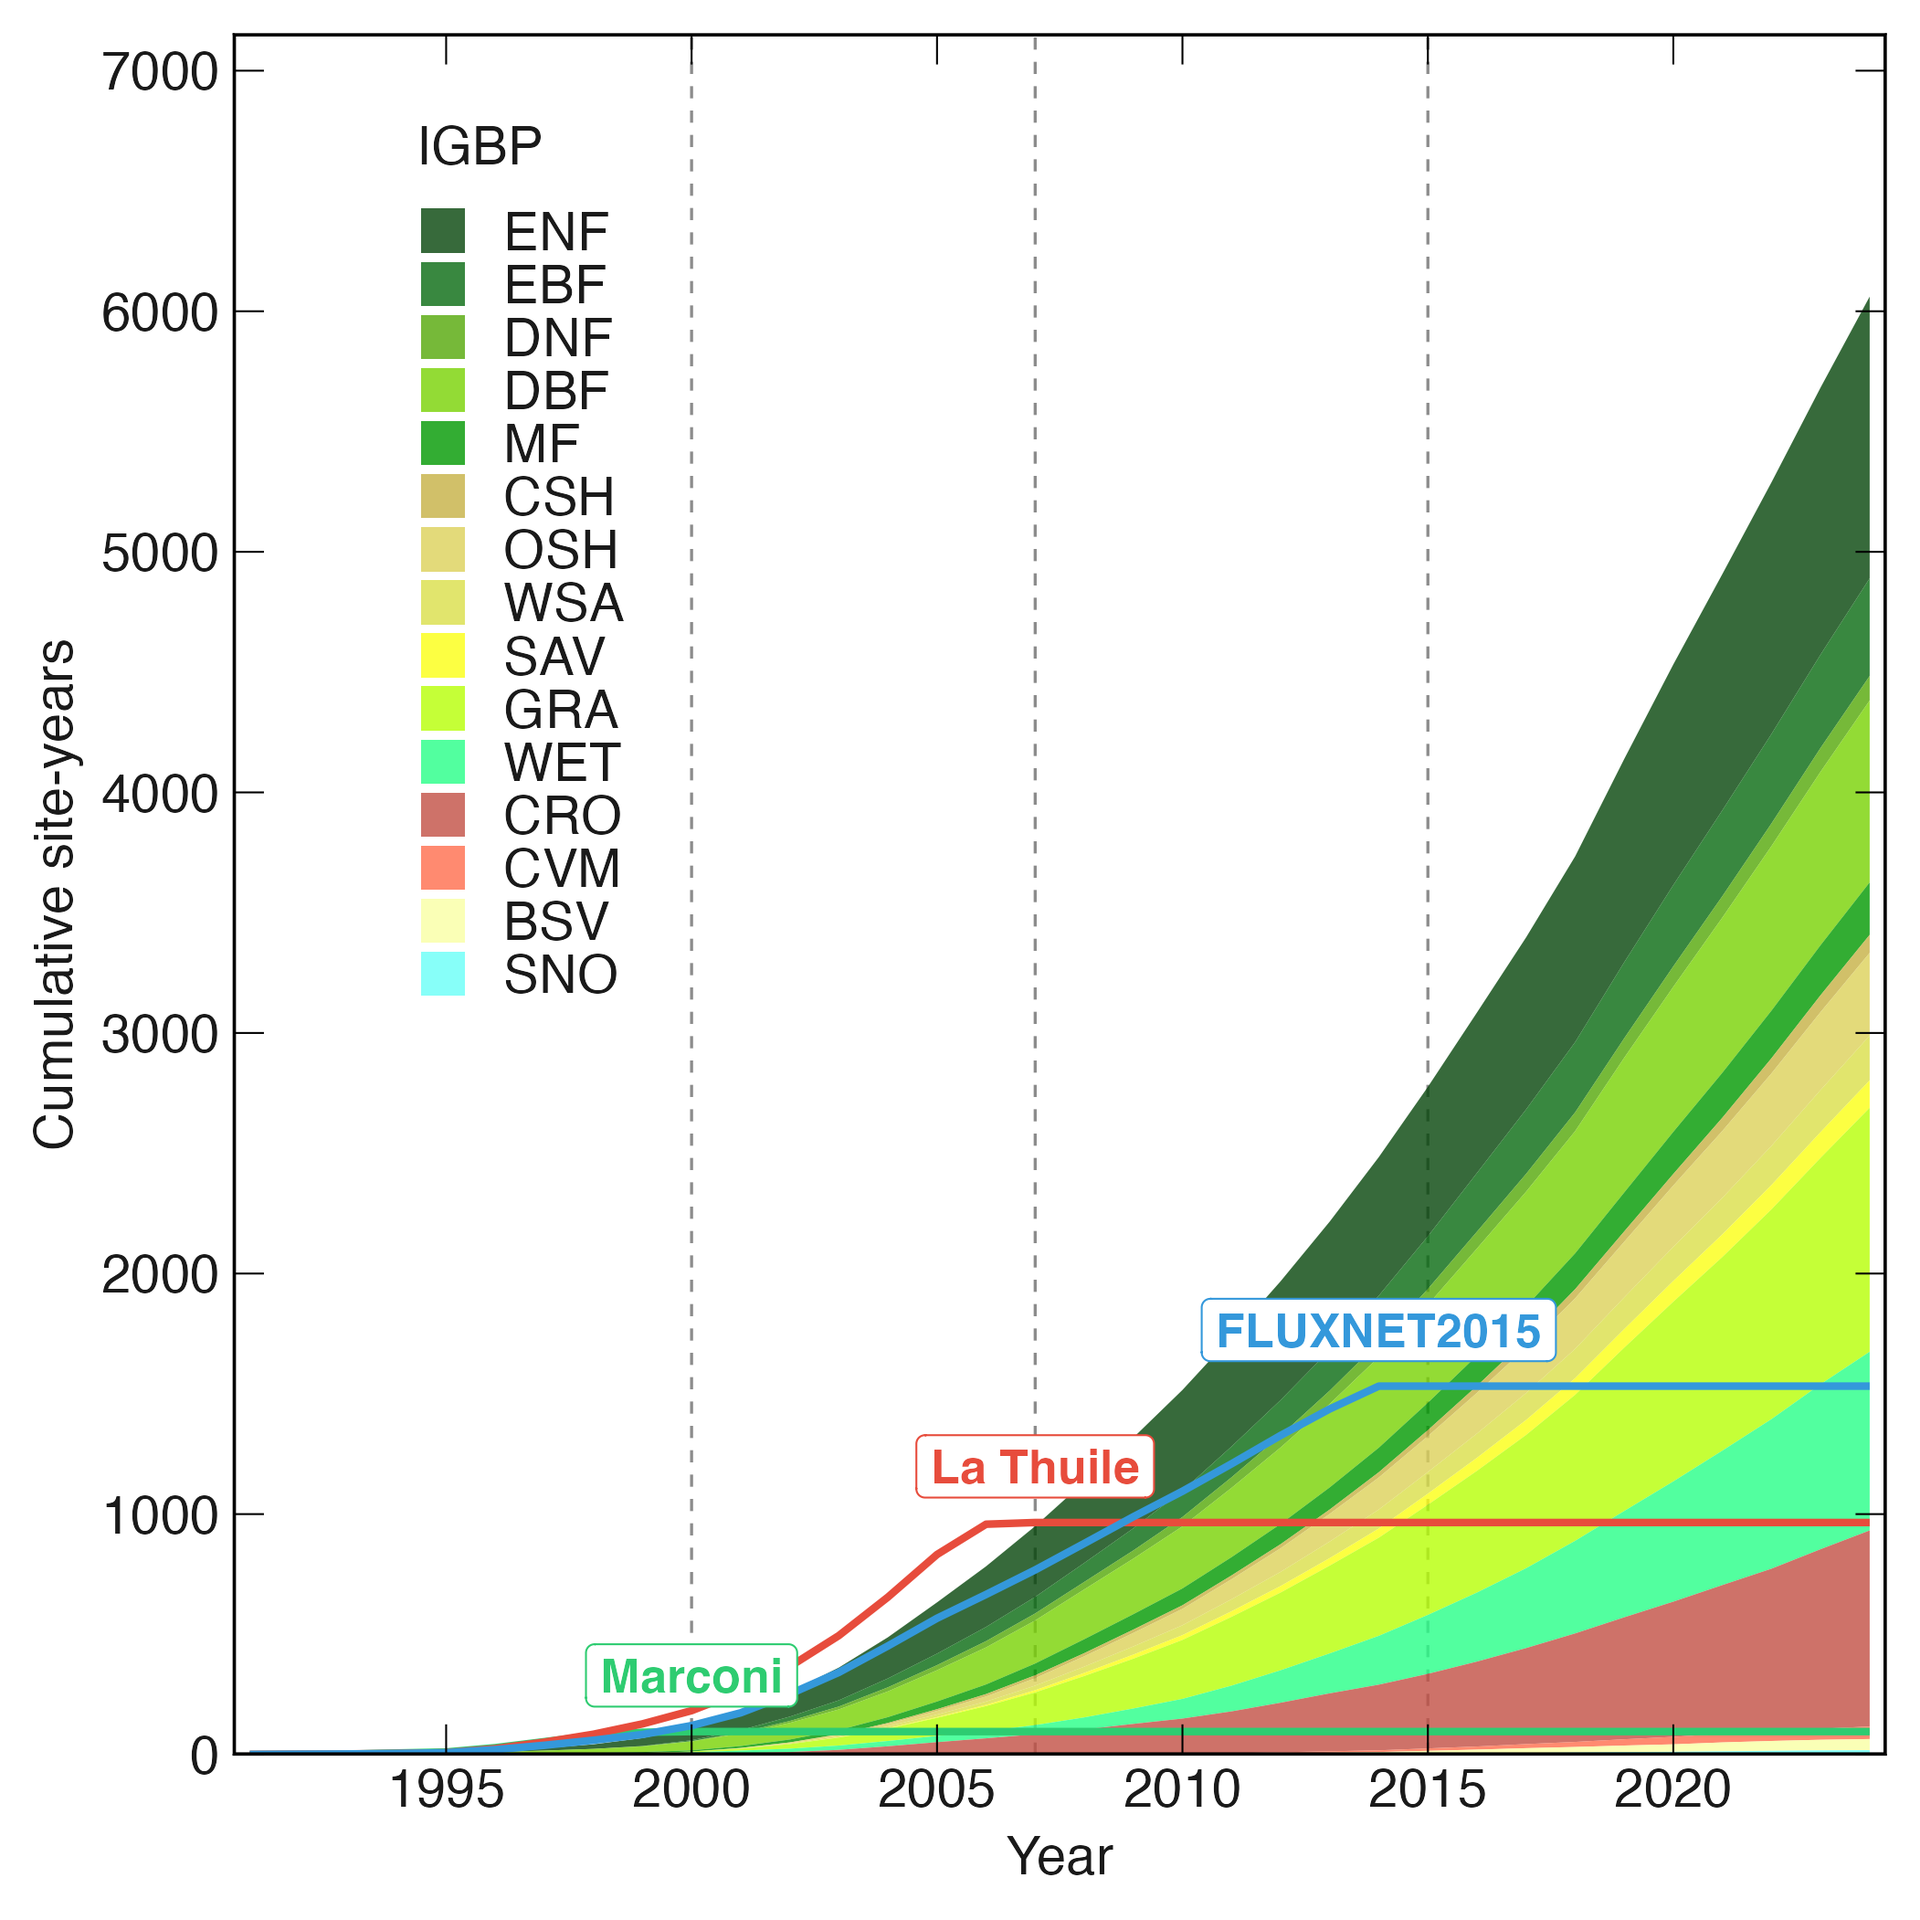
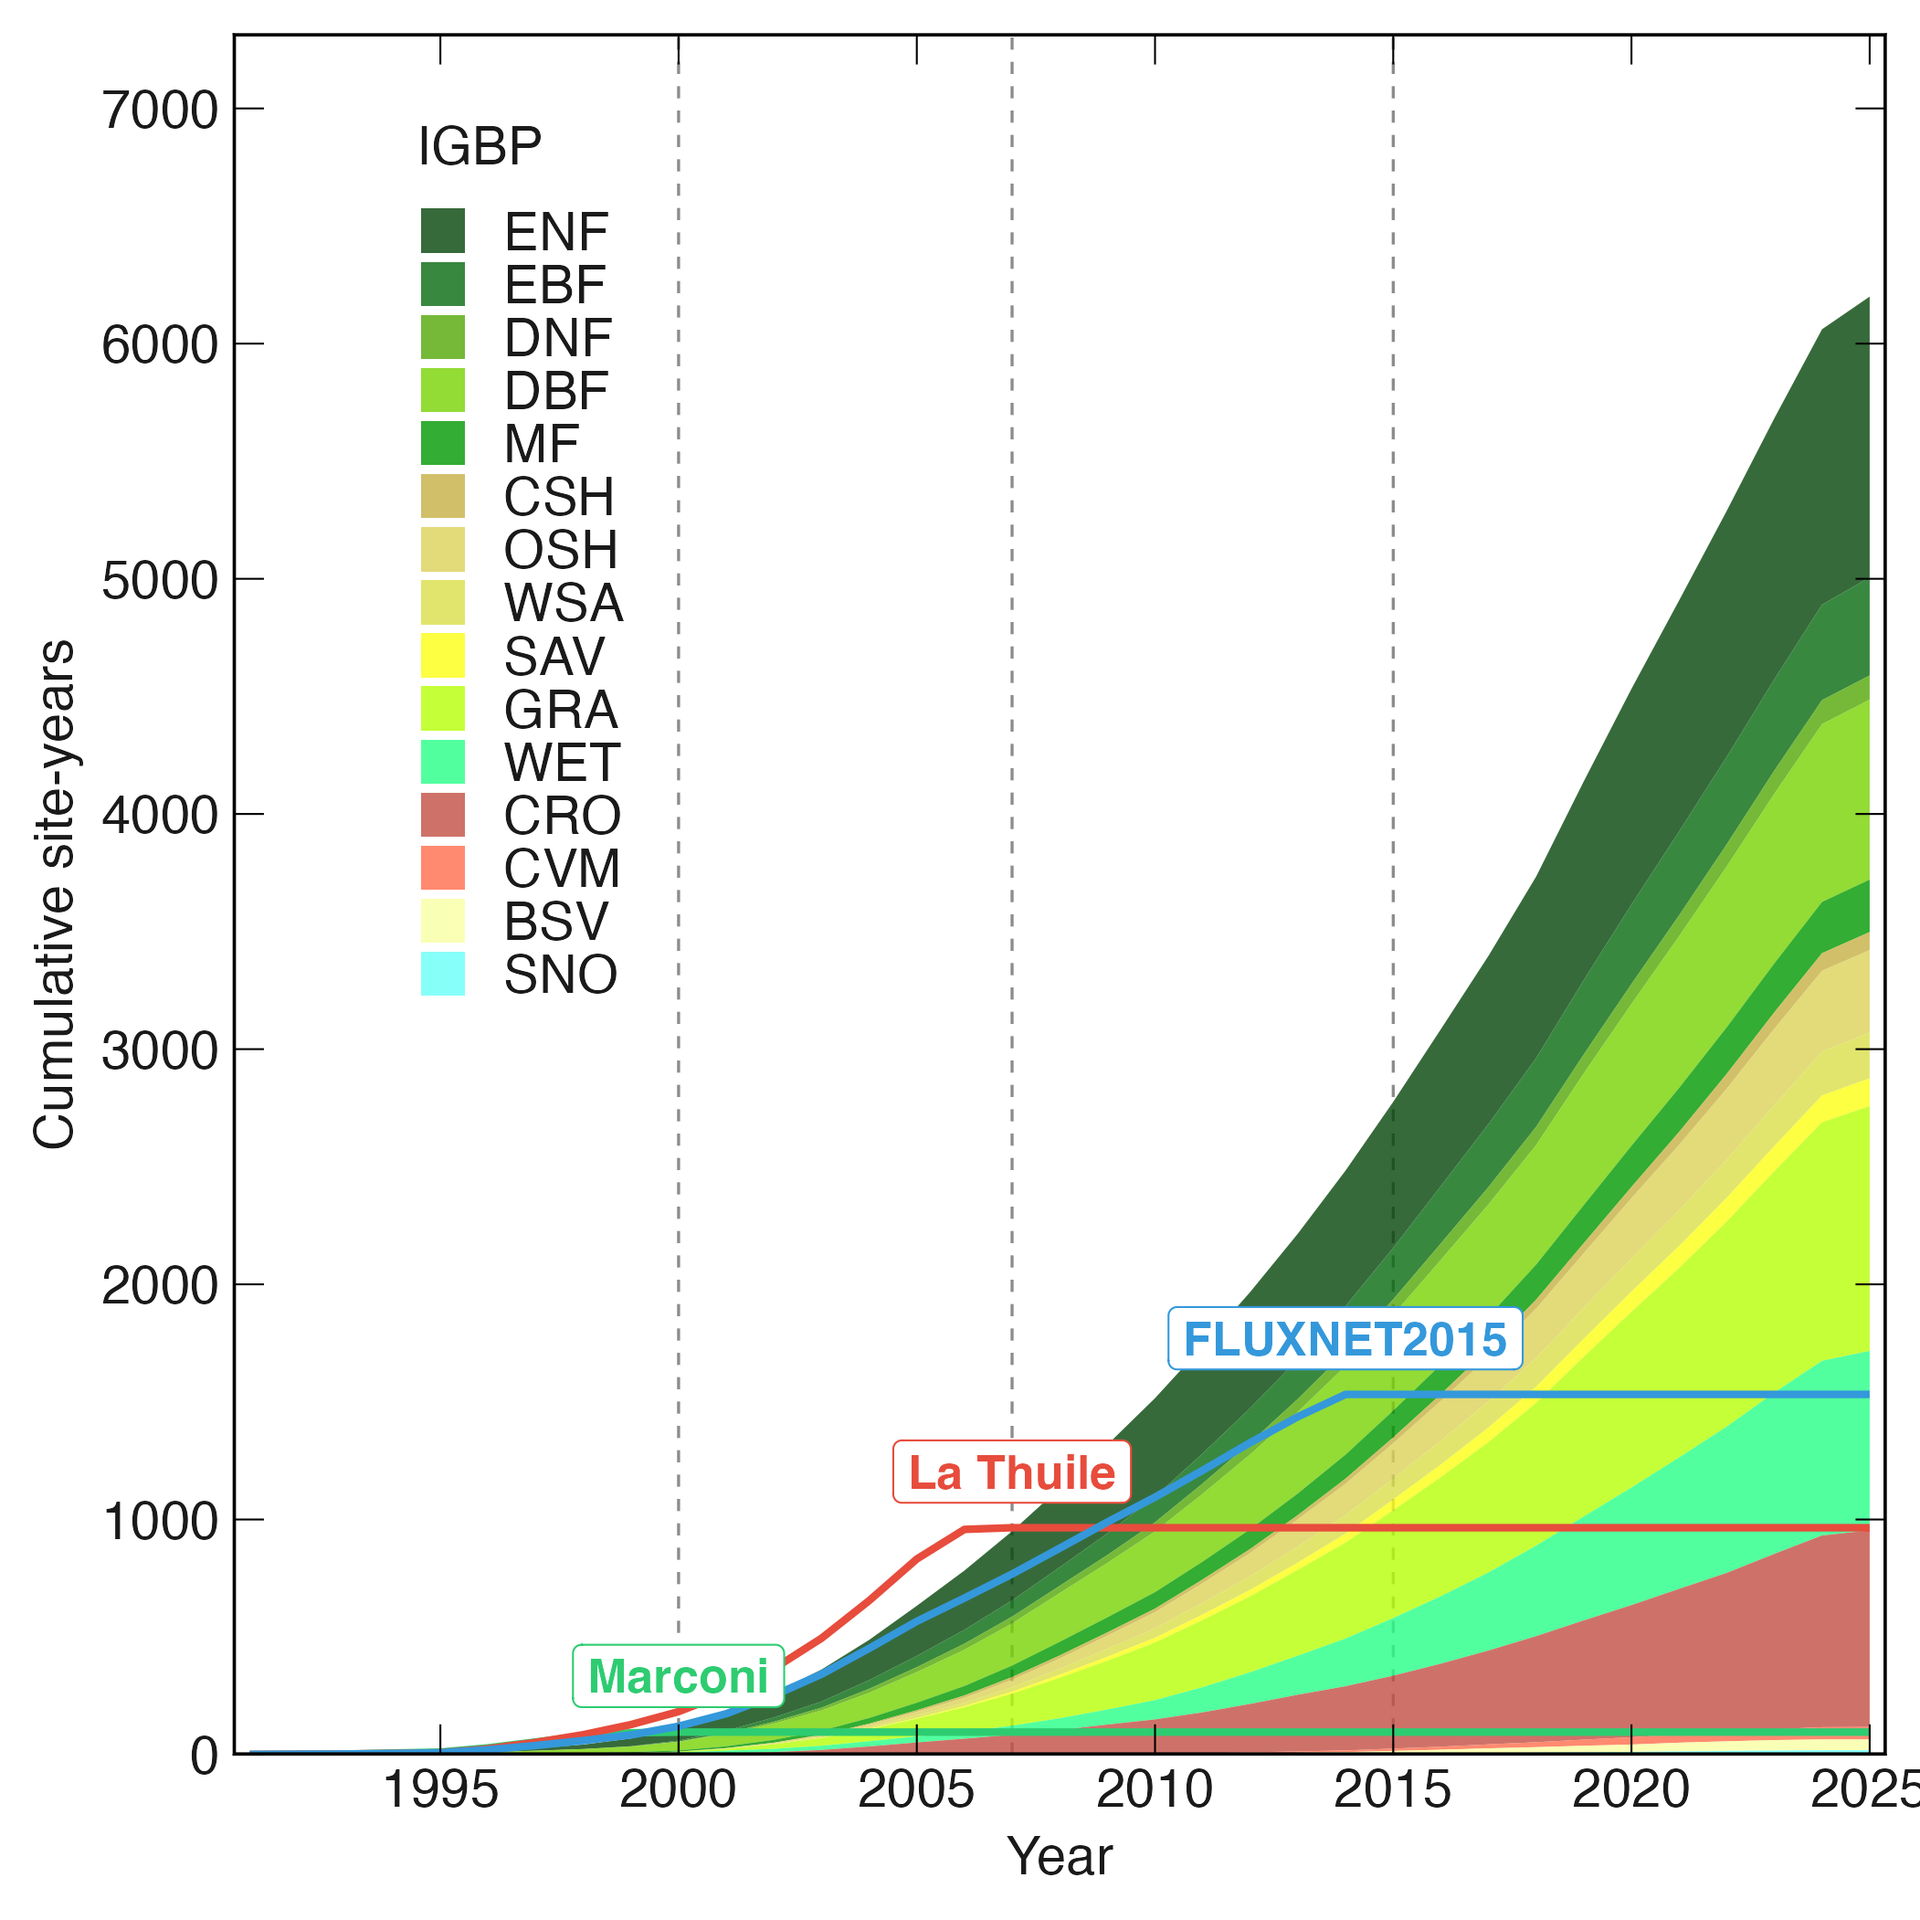
Make Figure 2's current-network year window data-driven (1991-2025)
Figure 2 and the collection comparison table previously stopped at a
hard-coded 1991-2024 current-network window, stale now that 2025 data
exists. Add R/utils.R::data_year_window(presence_df), which reads the
first/last calendar year with any has_data = TRUE row (ignoring empty
ONEFlux padding years for the current, incomplete year) plus the site
count for the final year. fig_cumulative_siteyears_igbp() now defaults
year_range to this window instead of a literal 1991:2024 (explicit
year_range still overrides); x-axis breaks track the window too.
generate_fig_cumulative_siteyears.R and collection_comparison_table.R
both call the same helper, so Figure 2 and Table 1 cannot disagree.

Result: window 1991-2025, 6,200 current-network site-years (6,061
through 2024 + 139 in 2025), 139/781 sites report 2025 -- matches a
hand tally of site_year_data_presence.csv exactly. Historical
collections unchanged (Marconi 96, La Thuile 965, FLUXNET2015 1,532).
Figure rebuilt and check_figure_format.R re-run: 11/11 PASS.

Flagged, not changed: generate_duration_histograms.R's Dur11 plot
silently inherits the new window too (calls the same function without
year_range); its own report line, Dur09/Dur10, 07_figures.R's
fig_map_nee_delta recent_years, and the KG/GEZ anomaly scripts'
RECENT_YEARS still hard-code a 2024 end year -- see SESSION_LOG.md and
docs/methods_requirements.md 5.5 for the full list.

diff --git a/SESSION_LOG.md b/SESSION_LOG.md
@@ -4,6 +4,63 @@ A running record of Claude Code investigation reports, audits, and summaries for
 
 Convention: Claude Code prepends new entries at the top of this file (reverse chronological order — most recent first), then commits and pushes immediately. Prompts and back-and-forth are not logged here, only Claude Code's structured outputs (reports, audits, investigation summaries).
 
+## 2026-10-05 — Figure 2 extended to a data-driven year window (1991–2025)
+
+Figure 2 (cumulative site-years by IGBP) and the collection comparison table previously stopped
+at a hard-coded 1991–2024 current-network window, which had gone stale now that 2025 data exists.
+Made the window data-driven so it never needs hand-editing again.
+
+**New helper:** `data_year_window(presence_df)` (`R/utils.R`) returns the first/last calendar
+year with any `has_data = TRUE` row in a `compute_site_year_presence()`-style table, plus the
+number of sites reporting the final year. It ignores empty full-calendar-year ONEFlux padding
+rows automatically, since those rows are `has_data = FALSE` by construction (confirmed earlier
+this session in the "most recent data" DuckDB investigation, above).
+
+**Changes:**
+- `R/figures/fig_network_growth.R::fig_cumulative_siteyears_igbp()`: `year_range` now defaults to
+  `NULL`, resolved via `data_year_window(presence_df)` when not supplied (explicit `year_range`
+  still overrides). X-axis breaks changed from a hard-coded `seq(1990, 2025, 5)` to
+  `seq(floor(yr_min/5)*5, ceiling(yr_max/5)*5, 5)` so they track the window too.
+- `scripts/generate_fig_cumulative_siteyears.R`: hard-coded `1991L`/`2024L` filter replaced with
+  the helper; legend's year range, total site-years, and new "N of 781 sites report `<year>`"
+  line are all written from the computed window, not typed.
+- `scripts/collection_comparison_table.R`: Table 1's current-network site-year total now uses the
+  same helper, so it and Figure 2 read from the same window and cannot silently disagree.
+
+**Result (matches hand-tally of `site_year_data_presence.csv` exactly):**
+- Window: **1991–2025**
+- Current-network site-years: **6,200** (6,061 through 2024 + 139 in 2025)
+- Sites reporting 2025: **139 of 781**
+- Historical collections unchanged: Marconi 96, La Thuile 965, FLUXNET2015 1,532
+- `collection_sites_siteyears.csv` re-run: `Current,781,6200` (was `6061` before this change)
+
+Figure 2 rebuilt (`review/figures/draft_manuscript_v1/fig_02_cumulative_siteyears_igbp.png/.pdf`,
+axis now runs to 2025, stack reaches ~6,200, historical lines still flat at their own fixed
+endpoints) and visually confirmed. `scripts/check_figure_format.R`: **11/11 PASS**, including the
+rebuilt Figure 2 (88.9×88.9 mm, fonts OK, text 0.25–1.00pt line weights, no change to format
+compliance).
+
+**Side effect flagged, not fixed:** `scripts/generate_duration_histograms.R`'s Dur11 panel calls
+the same `fig_cumulative_siteyears_igbp()` without passing `year_range`, so its *plot* now also
+silently extends to the 2025 window — only its own console "site-years plotted" report line
+remains hard-coded at 1991–2024 (now inconsistent with what its plot shows). Not corrected in
+this pass per the task's scope (listed, not changed).
+
+**Other paper-figure/table scripts still hard-coding a 2024 end year (listed, not changed):**
+- `scripts/07_figures.R`:275 — `fig_map_nee_delta(..., recent_years = 2020:2024, min_years = 5L)`
+- `scripts/generate_duration_histograms.R` — Dur09/Dur10 (`fig_siteyears_by_year()` /
+  `fig_siteyears_by_year_igbp()` in `R/figures/fig_network_growth.R`, each with its own
+  independent `year_range = 1991:2024` default) and Dur11's `year <= 2024L` report-line filter
+  (see side effect above)
+- `scripts/generate_kg_anomaly_figures.R`:41 — `RECENT_YEARS <- 2019:2024`
+- `scripts/generate_gez_anomaly_figures.R`:37 — `RECENT_YEARS <- 2019:2024`
+  (both match `R/figures/fig_anomaly_context.R`'s own hard-coded `recent_years = 2019:2024`
+  defaults in two separate functions)
+
+`docs/methods_requirements.md` §5.5 updated with the new window, total, and this list.
+
+---
+
 ## 2026-10-05 — Most recent data and latency in the local DuckDB (read-only)
 
 Read-only query against `data/duckdb/fluxnet.duckdb` (built 2026-09-28, from a Shuttle

diff --git a/docs/methods_requirements.md b/docs/methods_requirements.md
@@ -300,6 +300,35 @@ or model outputs used for comparison.
   `PAPER_IGBP_ORDER` class, classes present, and any missing/non-standard class — one La Thuile
   site, CN-Xfs, carries class "TBD"), and `collection_sites_per_year.csv` (sites with data per
   year, 1991–2007, La Thuile vs current).
+- **Current-network year window is data-driven, not hard-coded (2026-10-05):** the current
+  network's site-year window and total previously stopped at a hard-coded 1991–2024, which had
+  gone stale now that 2025 data exists. `R/utils.R::data_year_window(presence_df)` now computes
+  the window directly from `data/snapshots/site_year_data_presence.csv` — the first and last
+  calendar year in which any site has `has_data = TRUE` — ignoring the empty full-calendar-year
+  padding rows ONEFlux writes for the current, still-incomplete year (see SESSION_LOG.md
+  2026-10-05, "most recent data" investigation, for why those padding rows exist and how they were
+  confirmed empty). It also returns the number of sites reporting the final year. As of this
+  refresh: **window 1991–2025; 6,200 current-network site-years (6,061 through 2024 plus 139 in
+  2025); 139 of 781 sites report 2025.** Marconi/La Thuile/FLUXNET2015 totals are unaffected (96,
+  965, 1,532 — each collection's own fixed historical range). Both
+  `scripts/generate_fig_cumulative_siteyears.R` (Figure 2) and
+  `scripts/collection_comparison_table.R` (Table 1) now call this same helper for their
+  current-network window/total, so the two outputs cannot silently disagree. Figure 2's legend
+  reports the window, the total, and the final-year site count from the same computed values
+  rather than typed text.
+  **Not yet converted to the data-driven window** (hard-coded at a 2024 end year, unchanged in
+  this pass — see SESSION_LOG.md 2026-10-05 for the full list): `scripts/07_figures.R`'s
+  `fig_map_nee_delta(..., recent_years = 2020:2024)` call; `scripts/generate_duration_histograms.R`'s
+  Dur09/Dur10 panels (`fig_siteyears_by_year()`/`fig_siteyears_by_year_igbp()` in
+  `R/figures/fig_network_growth.R`, each with its own hard-coded `year_range = 1991:2024` default,
+  separate from `fig_cumulative_siteyears_igbp()` above) and Dur11's own `year <= 2024L`
+  site-years-plotted report line; `scripts/generate_kg_anomaly_figures.R` and
+  `scripts/generate_gez_anomaly_figures.R` (`RECENT_YEARS <- 2019:2024`, matching
+  `R/figures/fig_anomaly_context.R`'s own hard-coded `recent_years = 2019:2024` defaults in two
+  separate functions). Note: Dur11's *plot* itself (which calls `fig_cumulative_siteyears_igbp()`
+  without passing `year_range`) now extends to the same data-driven 2025 window as Figure 2, as a
+  side effect of the default change above — only its console report line and site-year total text
+  are still hard-coded at 2024.
 - How historical site lists were obtained and standardised
 - How historical sites not in Shuttle were handled (fallback metadata)
 - WorldClim v2.1 bioclimatic variables (Fick & Hijmans 2017):
